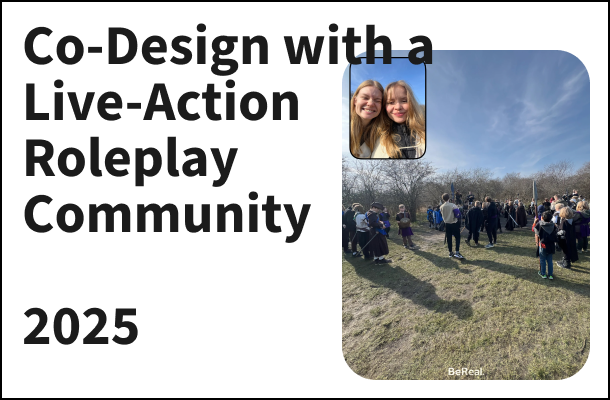
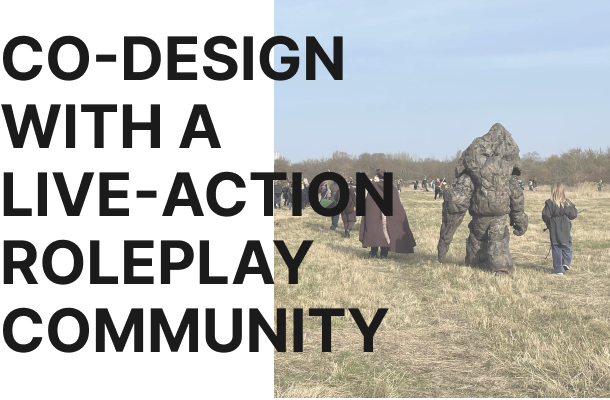
new fronts to projects, removed floating node, editted titles to projects

diff --git a/app/page.tsx b/app/page.tsx
@@ -1,4 +1,4 @@
-import ledImage from "@/app/assets/led-installation-hover.png";
+import ledImage from "@/app/assets/led-installation-front.png";
 import FlowerLink from "@/app/components/flower-link";
 import FilterNav from "@/app/components/filter-nav";
 // import AboutMeButton from "@/app/components/about-me-button";
@@ -11,7 +11,6 @@ import MobileProjectSlot from "@/app/components/mobile-project-slot";
 import ThesisRoleplaySlot from "@/app/components/thesis-roleplay-slot";
 import Footer from "@/app/components/footer";
 import CustomCursor from "@/app/components/custom-cursor";
-import FloatingNode from "@/app/components/floating-node";
 import FilterableItem from "@/app/components/filterable-item";
 import { FilterProvider } from "@/app/context/filter-context";
 
@@ -21,7 +20,6 @@ export default function Home() {
       <div className="relative z-0 min-h-screen bg-white">
         <BackgroundGraphic />
         <CustomCursor />
-        <FloatingNode />
         <header className="max-w-6xl mx-auto px-4 md:px-12 pt-4 pb-4 sm:pb-6">
           <div className="flex flex-col xl:flex-row xl:flex-wrap items-start xl:items-end gap-4 xl:min-h-[55px]">
             <FlowerLink />
@@ -50,7 +48,7 @@ export default function Home() {
                   exploring the digital world and learning new tools.
                 </p>
                 <p>
-                  This is my <span className="font-bold text-[#ED2E85]">project parking</span> spot. Here you can see a mix of my digital design
+                  This is my <span className="font-bold text-[#ED2E85]">project parking</span> <span className="font-bold">spot</span>. Here you can see a mix of my digital design
                   projects and personal art pieces.
                 </p>
               </TextBlock>
@@ -137,7 +135,7 @@ export default function Home() {
                   exploring the digital world and learning new tools.
                 </p>
                 <p>
-                  This is my <span className="font-bold text-[#ED2E85]">project parking</span> spot. Here you can see a mix of my digital design
+                  This is my <span className="font-bold text-[#ED2E85]">project parking</span> <span className="font-bold">spot</span>. Here you can see a mix of my digital design
                   projects and personal art pieces.
                 </p>
               </TextBlock>
@@ -195,7 +193,7 @@ export default function Home() {
               <FilterableItem category="project">
                 <ProjectLink
                   href="/projects/led-installation-strangers-transit"
-                  title="LED Installation for Strangers on Transit"
+                  title="Strangers on Transit LED Installation"
                   year="2026"
                   image={ledImage}
                 />

diff --git a/app/components/mobile-project-slot.tsx b/app/components/mobile-project-slot.tsx
@@ -2,10 +2,10 @@
 
 import { useFilter } from "@/app/context/filter-context";
 import ProjectLink from "@/app/components/project-link";
-import thesisImage from "@/app/assets/b-thesis-front.png";
-import neverLateBedImage from "@/app/assets/neverlatebed-front-hover.png";
-import ledImage from "@/app/assets/led-installation-hover.png";
-import roleplayImage from "@/app/assets/roleplay-front-hover.png";
+import thesisImage from "@/app/assets/thesis-front.png";
+import neverLateBedImage from "@/app/assets/never-late-bed-front.png";
+import ledImage from "@/app/assets/led-installation-front.png";
+import roleplayImage from "@/app/assets/roleplay-front.png";
 
 // Mobile-only (below lg) project placement, kept separate from the desktop
 // column logic (see thesis-roleplay-slot.tsx) since the two need completely
@@ -26,18 +26,18 @@ export default function MobileProjectSlot({ position }: { position: Position }) 
   const thesis = (
     <ProjectLink
       href="/projects/co-design-ai-acute-health"
-      title="Co-Design of AI Solution for Acute Health Situations (Bachelor Thesis Project)"
+      title="Co-designing AI for Acute Health Situations (Bachelor Thesis Project)"
       year="2026"
       image={thesisImage}
     />
   );
   const neverLateBed = (
-    <ProjectLink href="/projects/never-late-bed" title="The Never-Late Bed" year="2024" image={neverLateBedImage} />
+    <ProjectLink href="/projects/never-late-bed" title="Never-Late Bed" year="2024" image={neverLateBedImage} />
   );
   const led = (
     <ProjectLink
       href="/projects/led-installation-strangers-transit"
-      title="LED Installation for Strangers on Transit"
+      title="Strangers on Transit LED Installation"
       year="2026"
       image={ledImage}
     />
@@ -45,7 +45,7 @@ export default function MobileProjectSlot({ position }: { position: Position }) 
   const roleplay = (
     <ProjectLink
       href="/projects/codesign-project"
-      title="Co-Design with a Live-Action Roleplay Community"
+      title="Co-designing with a Live-Action Roleplay Community"
       year="2025"
       image={roleplayImage}
     />

diff --git a/app/components/thesis-roleplay-slot.tsx b/app/components/thesis-roleplay-slot.tsx
@@ -2,9 +2,9 @@
 
 import { useFilter } from "@/app/context/filter-context";
 import ProjectLink from "@/app/components/project-link";
-import thesisImage from "@/app/assets/b-thesis-front.png";
-import neverLateBedImage from "@/app/assets/neverlatebed-front-hover.png";
-import roleplayImage from "@/app/assets/roleplay-front-hover.png";
+import thesisImage from "@/app/assets/thesis-front.png";
+import neverLateBedImage from "@/app/assets/never-late-bed-front.png";
+import roleplayImage from "@/app/assets/roleplay-front.png";
 
 // Handles the one part of the 3-column desktop layout that needs to
 // rearrange between columns depending on the active filter: for "all", the
@@ -22,18 +22,18 @@ export default function ThesisRoleplaySlot({ position }: { position: Position })
   const thesis = (
     <ProjectLink
       href="/projects/co-design-ai-acute-health"
-      title="Co-Design of AI Solution for Acute Health Situations (Bachelor Thesis Project)"
+      title="Co-designing AI for Acute Health Situations (Bachelor Thesis Project)"
       year="2026"
       image={thesisImage}
     />
   );
   const neverLateBed = (
-    <ProjectLink href="/projects/never-late-bed" title="The Never-Late Bed" year="2024" image={neverLateBedImage} />
+    <ProjectLink href="/projects/never-late-bed" title="Never-Late Bed" year="2024" image={neverLateBedImage} />
   );
   const roleplay = (
     <ProjectLink
       href="/projects/codesign-project"
-      title="Co-Design with a Live-Action Roleplay Community"
+      title="Co-designing with a Live-Action Roleplay Community"
       year="2025"
       image={roleplayImage}
     />
